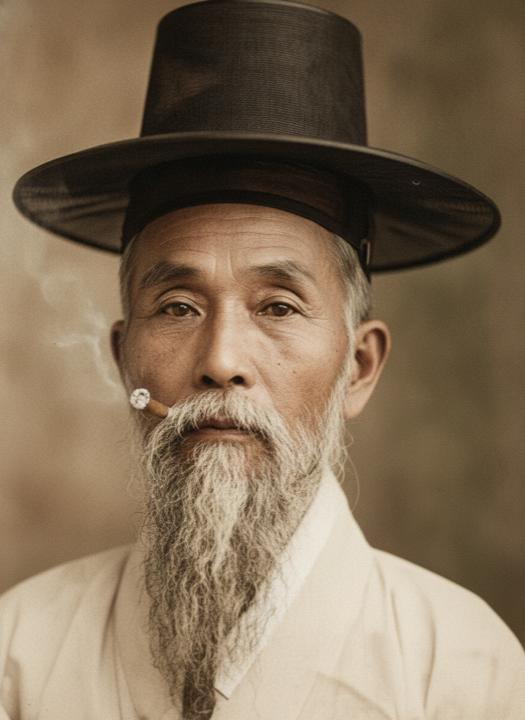
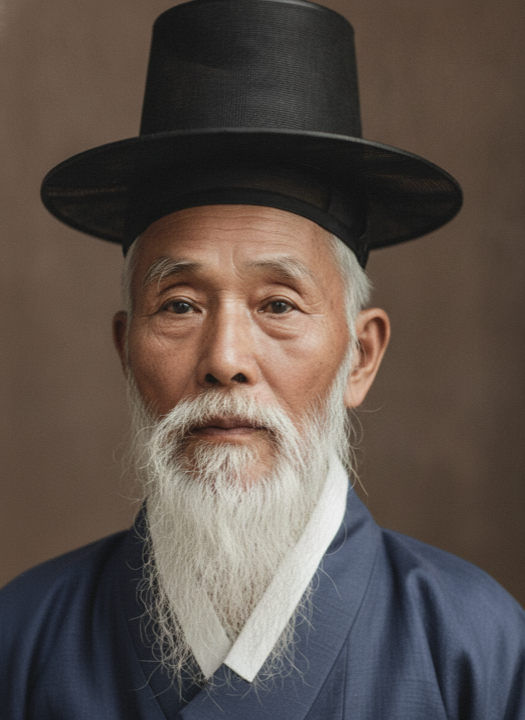
서경조 갤러리 컬러화 담배 환각 수정
- 재생성: 입에 담배·연기 없이 재컬러화(정체성·갓·수염 보존)
- gallery-colorize.ts: '입·손에 물건 추가 금지'(파이프·담배·연기·안경) 일반
  조항 + 서경조 전용 힌트 추가로 재발 방지

diff --git a/scripts/gallery-colorize.ts b/scripts/gallery-colorize.ts
@@ -32,7 +32,13 @@ const SCENE_PROMPT =
   "Do NOT reconstruct, repaint or hallucinate missing/blurry areas — if a region is damaged or indistinct, leave its shapes as-is and simply add plausible color. You may gently reduce obvious scratches, dust spots and stray blotches, but never alter the actual content. " +
   "Add realistic, natural, period-appropriate color to EVERYTHING — every face, all skin, hair, clothing, objects and the whole background. The OUTPUT MUST BE IN FULL NATURAL COLOR applied UNIFORMLY across the entire image; no region may stay grey/sepia/uncolored. " +
   "Preserve every person's exact identity, ethnicity, face, pose, expression and clothing (a Western/Caucasian face stays Western; Korean stays Korean). If someone wears traditional Korean dress (gat hat / hanbok), keep those exact garments — do not modernize them and do not add a hat or dress to anyone who is not already wearing one. " +
+  "NEVER add anything to anyone's mouth or hands: no pipe, cigarette, cigar, tobacco, smoke, glasses, or any object that is not clearly present in the original. Keep mouths, beards and hands exactly as they are. " +
   "Output the SAME image — same framing, same content, same borders — only with color added.";
+
+// 개별 사진 보강 힌트(재작업 사유와 함께 프롬프트에 덧붙임). 반복 환각 방지용.
+const HINTS: Record<string, string> = {
+  "seogyeongjo:0": " CRITICAL FOR THIS IMAGE: the elderly man has NOTHING in his mouth. Do NOT add or draw any pipe, cigarette, cigar, tobacco or smoke near his mouth or long white beard — that area must stay exactly as in the original. Add no objects at all.",
+};
 
 type Entry = GalleryPhoto & { srcColor?: string };
 
@@ -65,7 +71,7 @@ async function colorizeEntry(id: string, e: Entry, n: number): Promise<boolean> 
     method: "POST",
     headers: { "content-type": "application/json" },
     body: JSON.stringify({
-      contents: [{ parts: [{ text: SCENE_PROMPT + (REWORK[`g:${id}:${n}`] ? ` ADDITIONAL FIX REQUESTED BY REVIEWER (address this specifically): ${REWORK[`g:${id}:${n}`]}` : "") }, { inline_data: { mime_type: mime, data: buf.toString("base64") } }] }],
+      contents: [{ parts: [{ text: SCENE_PROMPT + (HINTS[`${id}:${n}`] ?? "") + (REWORK[`g:${id}:${n}`] ? ` ADDITIONAL FIX REQUESTED BY REVIEWER (address this specifically): ${REWORK[`g:${id}:${n}`]}` : "") }, { inline_data: { mime_type: mime, data: buf.toString("base64") } }] }],
       generationConfig: { responseModalities: ["IMAGE"] },
     }),
   });
